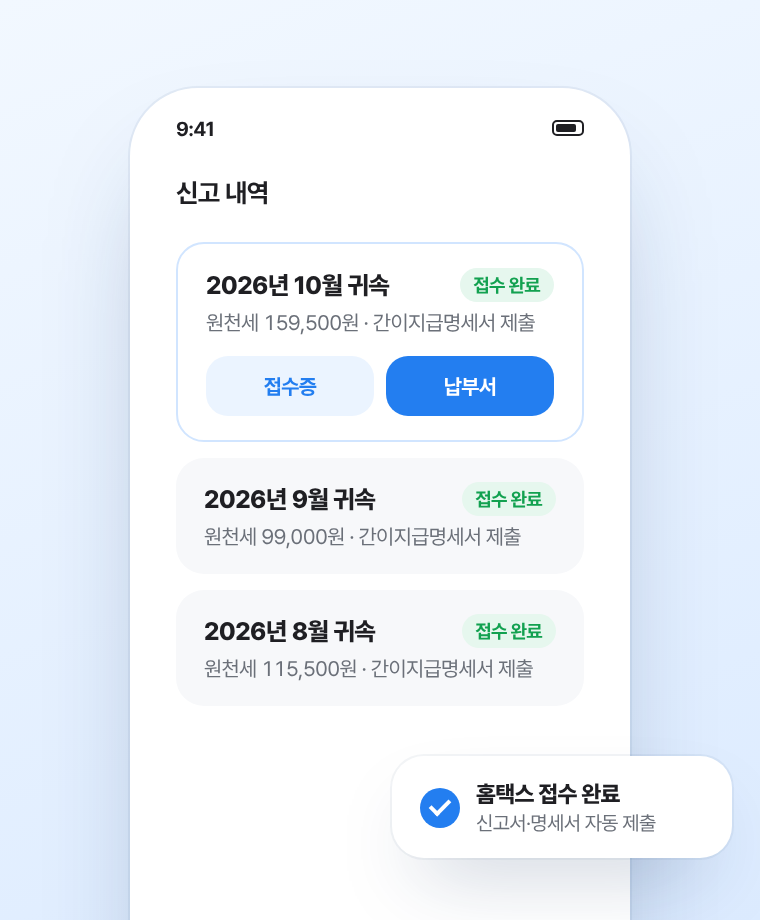
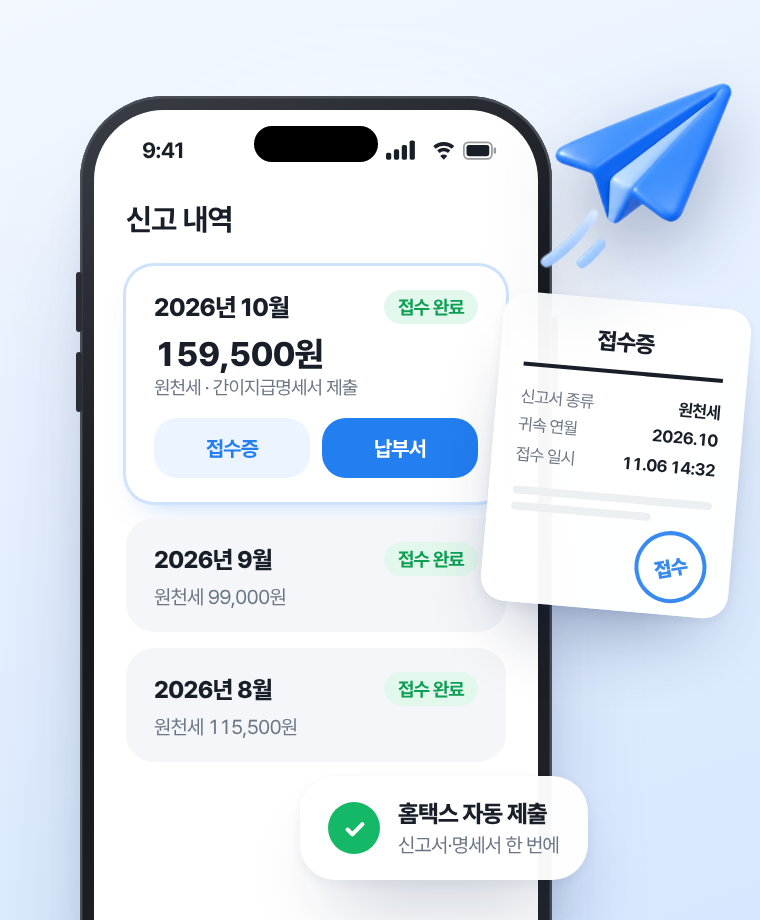
Redo landing images with device frames and Figma AI 3D graphics
Phones get a real device frame, the hero sits on a brand-blue gradient,
step screens are zoomed to one key element each, and 3D coin, document,
calculator and paper-plane graphics generated with Figma AI are layered
on top. Audience icons are now 3D renders from the same set.

Claude-Session: https://claude.ai/code/session_01XeTdt5mgBf16amy12iLBWn

diff --git a/images/_source/frames.html b/images/_source/frames.html
@@ -1,196 +1,214 @@
 <!doctype html><html lang="ko"><head><meta charset="utf-8">
 <link rel="stylesheet" href="../../fonts/pretendard/pretendardvariable-dynamic-subset.css">
 <style>
-:root{--ink:#1F1F23;--sub:#6B7079;--faint:#9CA1A9;--line:#E8EAEE;--band:#F7F8FA;--blue:#237EF0;--deep:#1A6AD6;--wash:#EBF4FF;--soft:#D1E5FF;--kakao:#FEE500}
+:root{--ink:#191F28;--sub:#6B7684;--faint:#A0A8B4;--line:#EDF0F3;--band:#F4F6F9;--blue:#237EF0;--deep:#1458C9;--wash:#EBF4FF;--soft:#CFE3FF;--kakao:#FEE500;--green:#14B866}
 *{box-sizing:border-box;margin:0;padding:0}
-body{font-family:"Pretendard Variable",Pretendard,sans-serif;color:var(--ink);background:#ccc;letter-spacing:-.02em;-webkit-font-smoothing:antialiased}
-.f{position:relative;overflow:hidden;margin:20px}
+body{font-family:"Pretendard Variable",Pretendard,sans-serif;color:var(--ink);background:#ccc;letter-spacing:-.025em;-webkit-font-smoothing:antialiased;display:flex;flex-wrap:wrap;align-items:flex-start}
+.f{position:relative;overflow:hidden;margin:20px;flex-shrink:0}
 .num{font-variant-numeric:tabular-nums}
-/* app screen */
-.scr{background:#fff;height:100%;display:flex;flex-direction:column;font-size:11px}
-.sb{height:26px;display:flex;align-items:center;justify-content:space-between;padding:0 16px;font-size:10px;font-weight:700;flex-shrink:0}
-.sb i{display:inline-block;width:16px;height:8px;border:1.2px solid var(--ink);border-radius:2.5px;position:relative}
-.sb i:after{content:"";position:absolute;inset:1px 3px 1px 1px;background:var(--ink);border-radius:1px}
-.nav{height:38px;display:flex;align-items:center;gap:8px;padding:0 16px;font-weight:700;font-size:13px;flex-shrink:0}
-.nav .bk{width:8px;height:8px;border-left:2px solid var(--ink);border-bottom:2px solid var(--ink);transform:rotate(45deg);margin-right:4px}
-.body{padding:6px 16px 0;flex:1;display:flex;flex-direction:column;min-height:0}
-.h{font-size:18px;font-weight:800;line-height:1.35;letter-spacing:-.04em}
+/* device */
+.dev{position:absolute;background:linear-gradient(150deg,#3A3E46 0%,#15171B 40%,#24272D 100%);padding:7px;box-shadow:0 50px 70px -36px rgba(8,30,80,.6),0 18px 30px -18px rgba(8,30,80,.35),inset 0 0 0 1.2px #4B4F57}
+.dev:before,.dev:after{content:"";position:absolute;width:3px;background:#2A2D33;border-radius:2px}
+.dev:before{left:-2.5px;top:88px;height:30px;box-shadow:0 40px 0 #2A2D33}
+.dev:after{right:-2.5px;top:110px;height:46px}
+.scr{background:#fff;height:100%;display:flex;flex-direction:column;position:relative;overflow:hidden;font-size:11px}
+.isl{position:absolute;top:8px;left:50%;transform:translateX(-50%);width:62px;height:18px;background:#000;border-radius:12px;z-index:5}
+.sb{height:36px;display:flex;align-items:center;justify-content:space-between;padding:4px 20px 0 24px;font-size:11px;font-weight:700;flex-shrink:0}
+.sb svg{display:block}
+.nav{height:34px;display:flex;align-items:center;gap:6px;padding:0 16px;font-weight:700;font-size:13px;flex-shrink:0}
+.bk{width:16px;height:16px;display:grid;place-items:center}
+.bd{padding:4px 16px 0;flex:1;display:flex;flex-direction:column;min-height:0}
+.h{font-size:19px;font-weight:800;line-height:1.32;letter-spacing:-.045em}
 .s{color:var(--sub);font-size:11px;margin-top:5px;line-height:1.5}
 .card{background:var(--band);border-radius:14px;padding:12px 14px}
 .row{display:flex;justify-content:space-between;align-items:center}
-.btn{flex-shrink:0;height:40px;border-radius:11px;background:var(--blue);color:#fff;font-weight:700;font-size:12.5px;display:grid;place-items:center}
-.btn.k{background:var(--kakao);color:#191919}
-.tag{display:inline-block;font-size:9.5px;font-weight:700;color:var(--blue);background:var(--wash);border-radius:99px;padding:3px 7px}
-.tag.g{color:#12A150;background:#E6F7EE}
-.lbl{font-size:10px;color:var(--sub);font-weight:600;margin-bottom:5px}
-.inp{height:36px;border:1.4px solid var(--line);border-radius:10px;display:flex;align-items:center;padding:0 11px;font-size:12px;font-weight:600}
-.inp.on{border-color:var(--blue);box-shadow:0 0 0 3px var(--wash)}
-.chip{flex:1;height:34px;border-radius:10px;border:1.4px solid var(--line);display:grid;place-items:center;font-size:11px;font-weight:700;color:var(--sub)}
-.chip.on{border-color:var(--blue);background:var(--wash);color:var(--blue)}
-.av{width:28px;height:28px;border-radius:50%;display:grid;place-items:center;font-weight:800;font-size:11px;flex-shrink:0}
-.logo{display:flex;align-items:center;gap:6px;font-weight:800;font-size:13px}
-.logo b{width:20px;height:20px;border-radius:6px;background:var(--blue);display:grid;place-items:center;color:#fff;font-size:11px}
-.dl{display:flex;justify-content:space-between;padding:6px 0;font-size:11.5px}
-.dl span:first-child{color:var(--sub)}
-.dl span:last-child{font-weight:700}
-hr{border:0;border-top:1px solid var(--line);margin:6px 0}
-/* phone frame */
-.ph{position:absolute;background:#fff;border-radius:34px;padding:7px;box-shadow:0 30px 60px -22px rgba(22,52,98,.38),0 0 0 1px rgba(22,52,98,.06)}
-.ph>.scr{border-radius:28px;overflow:hidden}
-.float{position:absolute;background:#fff;border-radius:16px;padding:12px 14px;box-shadow:0 18px 40px -16px rgba(22,52,98,.35),0 0 0 1px rgba(22,52,98,.05)}
-.chk{width:20px;height:20px;border-radius:50%;background:var(--blue);display:grid;place-items:center;flex-shrink:0}
-.chk:after{content:"";width:8px;height:4px;border-left:2px solid #fff;border-bottom:2px solid #fff;transform:rotate(-45deg) translate(1px,-1px)}
-.bg{background:linear-gradient(160deg,#F2F8FF 0%,#DCEBFF 100%)}
-.ico{display:block;width:32px;height:32px;margin:20px;background:transparent}
+.btn{flex-shrink:0;height:42px;border-radius:12px;background:var(--blue);color:#fff;font-weight:700;font-size:12.5px;display:flex;align-items:center;justify-content:center;gap:6px}
+.btn.ghost{background:var(--wash);color:var(--blue)}
+.tag{display:inline-flex;align-items:center;font-size:9.5px;font-weight:700;color:var(--blue);background:var(--wash);border-radius:99px;padding:3px 7px;white-space:nowrap}
+.tag.g{color:#0E9F55;background:#E3F8EC}
+.tag.o{color:#E07000;background:#FFF1DF}
+.av{width:30px;height:30px;border-radius:50%;display:grid;place-items:center;font-weight:800;font-size:11.5px;flex-shrink:0}
+.av.b{background:#E1EEFF;color:var(--blue)}.av.g{background:#DFF6E9;color:#0E9F55}.av.o{background:#FFEDD8;color:#E07000}
+.dl{display:flex;justify-content:space-between;padding:5px 0;font-size:11.5px}
+.dl span:first-child{color:var(--sub)}.dl span:last-child{font-weight:700}
+hr{border:0;border-top:1px solid #E3E7EC;margin:5px 0}
+.fl{position:absolute;background:rgba(255,255,255,.97);border-radius:18px;padding:12px 14px;box-shadow:0 22px 40px -18px rgba(8,30,80,.45),0 2px 6px rgba(8,30,80,.06);z-index:10}
+.ck{width:26px;height:26px;border-radius:50%;background:var(--blue);display:grid;place-items:center;flex-shrink:0}
+.ck.g{background:var(--green)}
+.ck svg{width:13px;height:13px}
+.ft{font-size:12px;font-weight:800}.fs{font-size:10px;color:var(--sub);margin-top:2px}
+.conf{position:absolute;border-radius:2px}
+.glow{position:absolute;border-radius:50%;filter:blur(30px)}
+.ico{display:block;width:32px;height:32px;margin:20px}
 </style></head><body>
+<svg width="0" height="0" style="position:absolute"><defs>
+ <symbol id="stat" viewBox="0 0 64 12"><g fill="#191F28"><rect x="0" y="7" width="3" height="4" rx="1"/><rect x="4.5" y="5" width="3" height="6" rx="1"/><rect x="9" y="2.5" width="3" height="8.5" rx="1"/><rect x="13.5" y="0" width="3" height="11" rx="1"/>
+ <path d="M27 3.2a9 9 0 0 1 12 0l-1.4 1.5a7 7 0 0 0-9.2 0zM29.2 5.6a5.6 5.6 0 0 1 7.6 0l-1.4 1.5a3.6 3.6 0 0 0-4.8 0zM33 11l-2-2.1a2.8 2.8 0 0 1 4 0z"/>
+ <rect x="44.5" y="1" width="16" height="9.5" rx="2.6" fill="none" stroke="#191F28" stroke-opacity=".45" stroke-width="1"/><rect x="46" y="2.5" width="13" height="6.5" rx="1.4"/><rect x="61.5" y="4" width="1.4" height="3.5" rx=".7" fill-opacity=".45"/></g></symbol>
+ <symbol id="chk" viewBox="0 0 14 14"><path d="M3 7.3l2.6 2.6L11 4.4" fill="none" stroke="#fff" stroke-width="2.2" stroke-linecap="round" stroke-linejoin="round"/></symbol>
+ <symbol id="back" viewBox="0 0 16 16"><path d="M10 3L5 8l5 5" fill="none" stroke="#191F28" stroke-width="2" stroke-linecap="round" stroke-linejoin="round"/></symbol>
+ <symbol id="kakao" viewBox="0 0 20 18"><path d="M10 1C4.8 1 1 4.2 1 8.1c0 2.5 1.6 4.7 4.1 5.9l-1 3.7 4.2-2.8c.6.1 1.1.1 1.7.1 5.2 0 9-3.2 9-7.1S15.2 1 10 1z" fill="#191919"/></symbol>
+</defs></svg>
 
-<!-- STEP 1: home / login -->
-<div class="f" id="step-1" style="width:210px;height:330px"><div class="scr">
-  <div class="sb"><span>9:41</span><i></i></div>
-  <div class="nav"><div class="logo"><b>₩</b>원클릭 원천세</div></div>
-  <div class="body">
-    <div class="tag" style="align-self:flex-start">11월 신고 기한 D-4</div>
-    <div class="h" style="margin-top:7px">매달 돌아오는 원천세,<br>3분이면 끝나요</div>
-    <div class="s">세금 계산부터 홈택스 신고까지<br>한 번에 끝내 드려요</div>
-    <div class="card" style="margin-top:10px;padding:10px 14px;background:var(--wash)">
-      <div class="row"><span style="font-size:10.5px;color:var(--sub);font-weight:600">이번 달 신고할 원천세</span></div>
-      <div style="font-size:12.5px;font-weight:800;margin-top:6px">2026년 10월 지급분</div>
-      <div style="display:flex;gap:6px;margin-top:7px"><span class="tag" style="background:#fff">사업소득 3.3%</span><span class="tag" style="background:#fff">기타소득 8.8%</span></div>
-    </div>
-    <div style="flex:1"></div>
-    <div class="btn k" style="margin-bottom:14px">카카오로 3초 만에 시작하기</div>
-  </div>
-</div></div>
-
-<!-- STEP 2: input -->
-<div class="f" id="step-2" style="width:210px;height:330px"><div class="scr">
-  <div class="sb"><span>9:41</span><i></i></div>
-  <div class="nav"><span class="bk"></span>지급 내역 입력</div>
-  <div class="body">
-    <div class="h" style="font-size:16px">누구에게 얼마를<br>지급했나요?</div>
-    <div style="margin-top:14px"><div class="lbl">받는 사람</div><div class="inp">김민지 · 디자이너</div></div>
-    <div style="margin-top:10px"><div class="lbl">소득 종류</div>
-      <div style="display:flex;gap:6px"><div class="chip on">사업소득 3.3%</div><div class="chip">기타소득 8.8%</div></div></div>
-    <div style="margin-top:10px"><div class="lbl">지급액</div><div class="inp on num">1,500,000<span style="margin-left:auto;color:var(--sub);font-weight:500">원</span></div></div>
-    <div style="flex:1"></div>
+<!-- ============ HERO 520x560 ============ -->
+<div class="f" id="hero" style="width:520px;height:560px;background:linear-gradient(155deg,#3D94FF 0%,#237EF0 42%,#1556CC 100%)">
+  <div class="glow" style="width:300px;height:300px;background:#7CC0FF;opacity:.55;left:170px;top:60px"></div>
+  <div class="glow" style="width:260px;height:260px;background:#0E3FA8;opacity:.6;left:-80px;top:380px"></div>
+  <svg style="position:absolute;inset:0" width="520" height="560"><g fill="none" stroke="#fff" stroke-opacity=".10"><circle cx="330" cy="280" r="170"/><circle cx="330" cy="280" r="240"/><circle cx="330" cy="280" r="310"/></g></svg>
+  <!-- back phone -->
+  <div class="dev" style="left:28px;top:96px;width:224px;height:462px;border-radius:40px;transform:rotate(-7deg)"><div class="scr" style="border-radius:33px">
+    <div class="isl"></div><div class="sb"><span>9:41</span><svg width="56" height="11"><use href="#stat"/></svg></div>
+    <div class="nav"><svg class="bk"><use href="#back"/></svg>10월 지급 내역</div>
+    <div class="bd">
+      <div class="card" style="background:linear-gradient(135deg,#2E88F7,#1A63DA);color:#fff;padding:13px 14px">
+        <div style="font-size:10px;opacity:.85;font-weight:600">이번 달 원천세</div>
+        <div style="font-size:20px;font-weight:800;margin-top:3px" class="num">159,500원</div>
+        <div style="font-size:9.5px;opacity:.85;margin-top:3px" class="num">지급 총액 4,000,000원 · 3명</div>
       </div>
-</div></div>
-
-<!-- STEP 3: tax summary -->
-<div class="f" id="step-3" style="width:210px;height:330px"><div class="scr">
-  <div class="sb"><span>9:41</span><i></i></div>
-  <div class="nav"><span class="bk"></span>세금 확인</div>
-  <div class="body">
-    <div class="s" style="margin-top:0">10월 지급분 · 3명</div>
-    <div class="h" style="margin-top:2px">이번 달 낼 세금은<br><span style="color:var(--blue)" class="num">159,500원</span>이에요</div>
-    <div class="card" style="margin-top:10px;padding:6px 12px">
-      <div class="dl num"><span>소득세</span><span>145,000원</span></div>
-      <div class="dl num"><span>지방소득세</span><span>14,500원</span></div>
-      <hr>
-      <div class="dl num"><span>납부 기한</span><span>11월 10일</span></div>
-    </div>
-    <div style="display:flex;align-items:center;gap:6px;margin-top:10px;font-size:10.5px;color:var(--sub)"><span class="chk" style="width:14px;height:14px"></span>간이지급명세서도 함께 제출돼요</div>
-    <div style="flex:1"></div>
-    <div class="btn" style="margin-bottom:14px">홈택스에 신고하기</div>
-  </div>
-</div></div>
-
-<!-- FEATURE CALC -->
-<div class="f bg" id="feature-calc" style="width:380px;height:460px">
-  <div class="ph" style="left:65px;top:44px;width:250px;height:480px"><div class="scr">
-    <div class="sb"><span>9:41</span><i></i></div>
-    <div class="nav"><span class="bk"></span>세금 계산 결과</div>
-    <div class="body">
-      <div class="row"><div style="display:flex;align-items:center;gap:8px"><div class="av" style="background:#FFF1E0;color:#E07B00">이</div><div><div style="font-weight:800;font-size:12.5px">이서연</div><div style="font-size:10px;color:var(--sub)">특강 강연료</div></div></div><span class="tag">기타소득 8.8%</span></div>
-      <div class="card" style="margin-top:12px;padding:8px 12px">
-        <div class="dl num"><span>지급액</span><span>500,000원</span></div>
-        <div class="dl num"><span>필요경비 (60%)</span><span>−300,000원</span></div>
-        <div class="dl num"><span>과세 대상 금액</span><span>200,000원</span></div>
-        <hr>
-        <div class="dl num"><span>소득세 (20%)</span><span>40,000원</span></div>
-        <div class="dl num"><span>지방소득세 (10%)</span><span>4,000원</span></div>
+      <div style="margin-top:8px">
+        <div class="row" style="padding:8px 0"><div style="display:flex;gap:8px;align-items:center"><div class="av b">김</div><div><div style="font-weight:700;font-size:11.5px">김민지</div><div style="font-size:9.5px;color:var(--sub)">디자인 외주</div></div></div><div style="text-align:right" class="num"><div style="font-weight:700">1,500,000원</div><div style="font-size:9px;color:var(--blue);font-weight:600">사업 3.3%</div></div></div>
+        <div class="row" style="padding:8px 0;border-top:1px solid var(--line)"><div style="display:flex;gap:8px;align-items:center"><div class="av g">박</div><div><div style="font-weight:700;font-size:11.5px">박준호</div><div style="font-size:9.5px;color:var(--sub)">앱 개발 외주</div></div></div><div style="text-align:right" class="num"><div style="font-weight:700">2,000,000원</div><div style="font-size:9px;color:var(--blue);font-weight:600">사업 3.3%</div></div></div>
+        <div class="row" style="padding:8px 0;border-top:1px solid var(--line)"><div style="display:flex;gap:8px;align-items:center"><div class="av o">이</div><div><div style="font-weight:700;font-size:11.5px">이서연</div><div style="font-size:9.5px;color:var(--sub)">특강 강연료</div></div></div><div style="text-align:right" class="num"><div style="font-weight:700">500,000원</div><div style="font-size:9px;color:#E07000;font-weight:600">기타 8.8%</div></div></div>
       </div>
-      <div style="margin-top:12px;padding:0 2px" class="row"><span style="font-size:11px;color:var(--sub);font-weight:600">실제 입금할 금액</span></div>
-      <div style="font-size:21px;font-weight:800;margin-top:2px;padding:0 2px" class="num">456,000원</div>
     </div>
   </div></div>
-  <div class="float" style="left:18px;top:392px;width:168px">
-    <div style="display:flex;align-items:center;gap:8px"><span class="chk"></span><div><div style="font-size:11.5px;font-weight:800">세율 자동 적용</div><div style="font-size:10px;color:var(--sub);margin-top:1px">원 단위 절사까지 반영</div></div></div>
-  </div>
-  <div class="float" style="right:14px;top:22px;padding:10px 12px">
-    <div style="font-size:9.5px;color:var(--sub);font-weight:600">원천징수 합계</div>
-    <div style="font-size:15px;font-weight:800;color:var(--blue);margin-top:2px" class="num">44,000원</div>
-  </div>
-</div>
-
-<!-- FEATURE HOMETAX -->
-<div class="f bg" id="feature-hometax" style="width:380px;height:460px">
-  <div class="ph" style="left:65px;top:44px;width:250px;height:480px"><div class="scr">
-    <div class="sb"><span>9:41</span><i></i></div>
-    <div class="nav">신고 내역</div>
-    <div class="body" style="gap:8px">
-      <div class="card" style="background:#fff;border:1.4px solid var(--soft)">
-        <div class="row"><span style="font-weight:800;font-size:12.5px">2026년 10월 귀속</span><span class="tag g">접수 완료</span></div>
-        <div style="font-size:10.5px;color:var(--sub);margin-top:4px" class="num">원천세 159,500원 · 간이지급명세서 제출</div>
-        <div style="display:flex;gap:6px;margin-top:10px"><div class="btn" style="flex:1;height:30px;font-size:10.5px;background:var(--wash);color:var(--blue)">접수증</div><div class="btn" style="flex:1;height:30px;font-size:10.5px">납부서</div></div>
-      </div>
-      <div class="card">
-        <div class="row"><span style="font-weight:800;font-size:12.5px">2026년 9월 귀속</span><span class="tag g">접수 완료</span></div>
-        <div style="font-size:10.5px;color:var(--sub);margin-top:4px" class="num">원천세 99,000원 · 간이지급명세서 제출</div>
-      </div>
-      <div class="card">
-        <div class="row"><span style="font-weight:800;font-size:12.5px">2026년 8월 귀속</span><span class="tag g">접수 완료</span></div>
-        <div style="font-size:10.5px;color:var(--sub);margin-top:4px" class="num">원천세 115,500원 · 간이지급명세서 제출</div>
-      </div>
-      
-    </div>
-  </div></div>
-  <div class="float" style="right:14px;top:378px;width:170px">
-    <div style="display:flex;align-items:center;gap:8px"><span class="chk"></span><div><div style="font-size:11.5px;font-weight:800">홈택스 접수 완료</div><div style="font-size:10px;color:var(--sub);margin-top:1px">신고서·명세서 자동 제출</div></div></div>
-  </div>
-</div>
-
-<!-- HERO -->
-<div class="f bg" id="hero" style="width:520px;height:560px">
-  <div style="position:absolute;width:360px;height:360px;border-radius:50%;background:radial-gradient(circle,#fff 0,rgba(255,255,255,0) 70%);left:80px;top:90px"></div>
-  <div class="ph" style="left:22px;top:70px;width:230px;height:470px;transform:rotate(-4deg)"><div class="scr">
-    <div class="sb"><span>9:41</span><i></i></div>
-    <div class="nav"><span class="bk"></span>지급 내역</div>
-    <div class="body" style="gap:0">
-      <div class="s" style="margin-top:0">2026년 10월 지급분</div>
-      <div style="font-size:16px;font-weight:800;margin-top:2px" class="num">총 4,000,000원</div>
-      <div style="margin-top:12px">
-        <div class="row" style="padding:8px 0"><div style="display:flex;gap:8px;align-items:center"><div class="av" style="background:var(--wash);color:var(--blue)">김</div><div><div style="font-weight:700">김민지</div><div style="font-size:9.5px;color:var(--sub)">사업소득 3.3%</div></div></div><div style="text-align:right" class="num"><div style="font-weight:700">1,500,000원</div><div style="font-size:9.5px;color:var(--blue)">세금 49,500원</div></div></div>
-        <div class="row" style="padding:8px 0;border-top:1px solid var(--line)"><div style="display:flex;gap:8px;align-items:center"><div class="av" style="background:#E6F7EE;color:#12A150">박</div><div><div style="font-weight:700">박준호</div><div style="font-size:9.5px;color:var(--sub)">사업소득 3.3%</div></div></div><div style="text-align:right" class="num"><div style="font-weight:700">2,000,000원</div><div style="font-size:9.5px;color:var(--blue)">세금 66,000원</div></div></div>
-        <div class="row" style="padding:8px 0;border-top:1px solid var(--line)"><div style="display:flex;gap:8px;align-items:center"><div class="av" style="background:#FFF1E0;color:#E07B00">이</div><div><div style="font-weight:700">이서연</div><div style="font-size:9.5px;color:var(--sub)">기타소득 8.8%</div></div></div><div style="text-align:right" class="num"><div style="font-weight:700">500,000원</div><div style="font-size:9.5px;color:var(--blue)">세금 44,000원</div></div></div>
-      </div>
-      <div style="margin-top:8px;height:34px;border:1.4px dashed var(--soft);border-radius:10px;display:grid;place-items:center;color:var(--blue);font-weight:700;font-size:11px">+ 지급 내역 추가</div>
-    </div>
-  </div></div>
-  <div class="ph" style="left:266px;top:30px;width:232px;height:480px;transform:rotate(3deg)"><div class="scr">
-    <div class="sb"><span>9:41</span><i></i></div>
-    <div class="body" style="align-items:center;text-align:center;padding-top:40px">
-      <div style="width:56px;height:56px;border-radius:50%;background:var(--wash);display:grid;place-items:center"><span class="chk" style="width:34px;height:34px"></span></div>
-      <div class="h" style="margin-top:16px">원천세 신고가<br>완료됐어요</div>
+  <!-- front phone -->
+  <div class="dev" style="left:244px;top:40px;width:236px;height:486px;border-radius:42px;transform:rotate(4deg)"><div class="scr" style="border-radius:35px">
+    <div class="isl"></div><div class="sb"><span>9:41</span><svg width="56" height="11"><use href="#stat"/></svg></div>
+    <div class="conf" style="width:7px;height:12px;background:#FFC93C;left:40px;top:62px;transform:rotate(25deg)"></div>
+    <div class="conf" style="width:6px;height:6px;background:#22C47A;left:62px;top:96px;border-radius:50%"></div>
+    <div class="conf" style="width:8px;height:4px;background:#FF7A59;left:168px;top:70px;transform:rotate(-30deg)"></div>
+    <div class="conf" style="width:6px;height:11px;background:#7AB6FF;left:182px;top:110px;transform:rotate(40deg)"></div>
+    <div class="conf" style="width:5px;height:5px;background:#FFC93C;left:150px;top:52px;border-radius:50%"></div>
+    <div class="conf" style="width:7px;height:4px;background:#237EF0;left:28px;top:128px;transform:rotate(-15deg)"></div>
+    <div class="bd" style="align-items:center;text-align:center;padding-top:30px">
+      <img src="3d/doc-check.png" style="width:86px;height:86px;margin-top:-6px;filter:drop-shadow(0 10px 14px rgba(35,126,240,.25))">
+      <div class="h" style="margin-top:10px;font-size:20px">원천세 신고가<br>완료됐어요</div>
       <div class="s">홈택스에 정상 접수됐어요</div>
-      <div class="card" style="margin-top:18px;width:100%;text-align:left;padding:8px 12px">
+      <div class="card" style="margin-top:16px;width:100%;text-align:left;padding:8px 13px">
         <div class="dl num"><span>귀속 연월</span><span>2026년 10월</span></div>
         <div class="dl num"><span>납부할 세금</span><span style="color:var(--blue)">159,500원</span></div>
         <div class="dl num"><span>납부 기한</span><span>11월 10일</span></div>
-        <div class="dl"><span>간이지급명세서</span><span>제출 완료</span></div>
+        <div class="dl"><span>간이지급명세서</span><span style="color:var(--green)">제출 완료</span></div>
       </div>
       <div style="flex:1"></div>
-      <div style="display:flex;gap:6px;width:100%;margin-bottom:16px"><div class="btn" style="flex:1;background:var(--wash);color:var(--blue)">접수증</div><div class="btn" style="flex:1">납부서 받기</div></div>
+      <div style="display:flex;gap:6px;width:100%;margin-bottom:18px"><div class="btn ghost" style="flex:1">접수증</div><div class="btn" style="flex:1.3">납부서 받기</div></div>
     </div>
   </div></div>
-  <div class="float" style="left:10px;top:410px;width:180px">
-    <div style="display:flex;align-items:center;gap:8px"><span class="chk"></span><div><div style="font-size:11.5px;font-weight:800">신고까지 3분</div><div style="font-size:10px;color:var(--sub);margin-top:1px">세율·절사 자동 계산</div></div></div>
-  </div>
+  <div class="fl" style="left:18px;top:38px;display:flex;align-items:center;gap:9px"><span class="ck"><svg><use href="#chk"/></svg></span><div><div class="ft">세율 자동 계산</div><div class="fs">3.3% · 8.8% 알아서 적용</div></div></div>
+  <img src="3d/coin.png" style="position:absolute;right:-4px;top:2px;width:86px;z-index:11;transform:rotate(12deg);filter:drop-shadow(0 14px 16px rgba(8,30,80,.35))">
+  <img src="3d/plane.png" style="position:absolute;left:18px;top:440px;width:84px;z-index:11;filter:drop-shadow(0 14px 16px rgba(8,30,80,.35))">
+  <div class="fl" style="left:110px;top:470px;display:flex;align-items:center;gap:9px"><span class="ck g"><svg><use href="#chk"/></svg></span><div><div class="ft">신고까지 단 3분</div><div class="fs">간이지급명세서도 함께 제출</div></div></div>
 </div>
 
-<!-- ICONS (stroke, 32 viewbox) -->
-<svg class="ico" id="who-1" viewBox="0 0 32 32" fill="none" stroke="#237EF0" stroke-width="2.2" stroke-linecap="round" stroke-linejoin="round"><rect x="4" y="6" width="24" height="16" rx="3"/><path d="M12 27h8M16 22v5"/><path d="M11 17l4-6 2 3 1.5-2L22 17z" fill="#D1E5FF"/></svg>
-<svg class="ico" id="who-2" viewBox="0 0 32 32" fill="none" stroke="#237EF0" stroke-width="2.2" stroke-linecap="round" stroke-linejoin="round"><rect x="12" y="3.5" width="8" height="14" rx="4" fill="#D1E5FF"/><path d="M8 15a8 8 0 0 0 16 0M16 23v5M11.5 28h9"/></svg>
-<svg class="ico" id="who-3" viewBox="0 0 32 32" fill="none" stroke="#237EF0" stroke-width="2.2" stroke-linecap="round" stroke-linejoin="round"><path d="M3 12l13-6 13 6-13 6z" fill="#D1E5FF"/><path d="M8.5 14.5v6.5c0 2 3.4 4 7.5 4s7.5-2 7.5-4v-6.5M29 12v7"/></svg>
-<svg class="ico" id="who-4" viewBox="0 0 32 32" fill="none" stroke="#237EF0" stroke-width="2.2" stroke-linecap="round" stroke-linejoin="round"><path d="M16 9c-3-2.4-7-3-12-2.5v18c5-.5 9 .1 12 2.5 3-2.4 7-3 12-2.5v-18C23 6 19 6.6 16 9z" fill="#D1E5FF"/><path d="M16 9v18"/></svg>
+<!-- ============ STEPS 210x330 ============ -->
+<div class="f" id="step-1" style="width:210px;height:330px;background:linear-gradient(170deg,#F3F8FF,#DDEBFF)">
+  <div class="glow" style="width:160px;height:160px;background:#fff;left:25px;top:40px;opacity:.9"></div>
+  <div class="dev" style="left:16px;top:26px;width:178px;height:360px;border-radius:34px;padding:6px"><div class="scr" style="border-radius:28px">
+    <div class="isl" style="width:54px;height:16px;top:7px"></div><div class="sb" style="height:32px;padding:3px 14px 0 20px;font-size:10px"><span>9:41</span><svg width="46" height="9"><use href="#stat"/></svg></div>
+    <div class="bd" style="padding:8px 14px 0;align-items:center;text-align:center">
+      <img src="3d/coin.png" style="width:62px;height:62px;margin-top:-4px;filter:drop-shadow(0 8px 10px rgba(224,160,0,.25))">
+      <div style="font-size:16.5px;font-weight:800;line-height:1.32;letter-spacing:-.05em;margin-top:8px">원천세 신고,<br>카카오로 바로 시작</div>
+      <div class="s" style="font-size:10px">회원가입·앱 설치 없이 무료</div>
+      <div style="display:flex;gap:5px;margin-top:14px"><span class="tag">사업소득 3.3%</span><span class="tag o">기타소득 8.8%</span></div>
+      <div class="btn" style="width:100%;background:var(--kakao);color:#191919;height:40px;font-size:12px;margin-top:18px"><svg width="15" height="14"><use href="#kakao"/></svg>카카오로 시작하기</div>
+    </div>
+  </div></div>
+</div>
+
+<div class="f" id="step-2" style="width:210px;height:330px;background:linear-gradient(170deg,#F3F8FF,#DDEBFF)">
+  <div class="dev" style="left:16px;top:26px;width:178px;height:360px;border-radius:34px;padding:6px"><div class="scr" style="border-radius:28px">
+    <div class="isl" style="width:54px;height:16px;top:7px"></div><div class="sb" style="height:32px;padding:3px 14px 0 20px;font-size:10px"><span>9:41</span><svg width="46" height="9"><use href="#stat"/></svg></div>
+    <div class="bd" style="padding:6px 13px 0">
+      <div style="font-size:15.5px;font-weight:800;line-height:1.32;letter-spacing:-.05em">누구에게 얼마를<br>지급했나요?</div>
+      <div style="margin-top:12px;display:flex;gap:7px;align-items:center;padding:8px 10px;border-radius:11px;background:var(--band)"><div class="av b" style="width:24px;height:24px;font-size:10px">김</div><div style="flex:1"><div style="font-weight:700;font-size:11px">김민지</div><div style="font-size:9px;color:var(--sub)">디자이너 · 외주비</div></div></div>
+      <div style="display:flex;gap:5px;margin-top:8px"><div style="flex:1;height:30px;border-radius:9px;border:1.5px solid var(--blue);background:var(--wash);color:var(--blue);font-size:10px;font-weight:700;display:grid;place-items:center">사업소득 3.3%</div><div style="flex:1;height:30px;border-radius:9px;border:1.5px solid var(--line);color:var(--sub);font-size:10px;font-weight:700;display:grid;place-items:center">기타소득 8.8%</div></div>
+      <div style="margin-top:12px;font-size:9.5px;color:var(--blue);font-weight:700">지급액</div>
+      <div style="display:flex;align-items:flex-end;gap:2px;border-bottom:2px solid var(--blue);padding:3px 0 5px"><span class="num" style="font-size:21px;font-weight:800;letter-spacing:-.03em">1,500,000</span><span style="width:2px;height:20px;background:var(--blue);margin:0 2px 3px"></span><span style="margin-left:auto;font-size:13px;font-weight:700;margin-bottom:3px">원</span></div>
+      <div style="margin-top:8px;display:flex;justify-content:space-between;font-size:9.5px" class="num"><span style="color:var(--sub)">원천징수 세액</span><span style="font-weight:700;color:var(--blue)">49,500원</span></div>
+    </div>
+  </div></div>
+</div>
+
+<div class="f" id="step-3" style="width:210px;height:330px;background:linear-gradient(170deg,#F3F8FF,#DDEBFF)">
+  <div class="dev" style="left:16px;top:26px;width:178px;height:360px;border-radius:34px;padding:6px"><div class="scr" style="border-radius:28px">
+    <div class="isl" style="width:54px;height:16px;top:7px"></div><div class="sb" style="height:32px;padding:3px 14px 0 20px;font-size:10px"><span>9:41</span><svg width="46" height="9"><use href="#stat"/></svg></div>
+    <div class="bd" style="padding:6px 13px 0">
+      <div style="font-size:10px;color:var(--sub);font-weight:600">10월 지급분 · 3명</div>
+      <div style="font-size:15.5px;font-weight:800;line-height:1.32;letter-spacing:-.05em;margin-top:3px">이번 달 낼 세금은</div>
+      <div class="num" style="font-size:25px;font-weight:800;color:var(--blue);letter-spacing:-.04em;line-height:1.25">159,500<span style="font-size:16px;color:var(--ink)">원</span></div>
+      <div class="card" style="margin-top:10px;padding:5px 11px">
+        <div class="dl num" style="font-size:10.5px"><span>소득세</span><span>145,000원</span></div>
+        <div class="dl num" style="font-size:10.5px"><span>지방소득세</span><span>14,500원</span></div>
+        <hr><div class="dl num" style="font-size:10.5px"><span>납부 기한</span><span>11월 10일</span></div>
+      </div>
+      <div style="display:flex;align-items:center;gap:5px;margin-top:9px;font-size:9.5px;font-weight:700;color:var(--sub)"><span class="ck g" style="width:14px;height:14px"><svg style="width:8px;height:8px"><use href="#chk"/></svg></span>간이지급명세서도 함께 제출돼요</div>
+      <div class="btn" style="margin-top:8px;height:38px;font-size:11.5px;box-shadow:0 8px 16px -8px rgba(35,126,240,.8)">홈택스에 신고하기</div>
+    </div>
+  </div></div>
+  
+</div>
+
+<!-- ============ FEATURE CALC 380x460 ============ -->
+<div class="f" id="feature-calc" style="width:380px;height:460px;background:linear-gradient(160deg,#F3F8FF 0%,#D6E7FF 100%)">
+  <div class="glow" style="width:240px;height:240px;background:#fff;left:70px;top:60px;opacity:.9"></div>
+  <div class="dev" style="left:72px;top:48px;width:236px;height:470px;border-radius:42px"><div class="scr" style="border-radius:35px">
+    <div class="isl"></div><div class="sb"><span>9:41</span><svg width="56" height="11"><use href="#stat"/></svg></div>
+    <div class="nav"><svg class="bk"><use href="#back"/></svg>세금 계산</div>
+    <div class="bd">
+      <div class="row"><div style="display:flex;align-items:center;gap:8px"><div class="av o">이</div><div><div style="font-weight:800;font-size:12.5px">이서연</div><div style="font-size:10px;color:var(--sub)">특강 강연료</div></div></div><span class="tag o">기타소득</span></div>
+      <div class="card" style="margin-top:12px;padding:7px 13px">
+        <div class="dl num"><span>지급액</span><span>500,000원</span></div>
+        <div class="dl num"><span>필요경비 60%</span><span style="color:var(--sub);font-weight:600">−300,000원</span></div>
+        <hr>
+        <div class="dl num"><span>소득세 20%</span><span>40,000원</span></div>
+        <div class="dl num"><span>지방소득세 10%</span><span>4,000원</span></div>
+      </div>
+      <div style="margin-top:14px;font-size:10.5px;color:var(--sub);font-weight:600">받는 분께 입금할 금액</div>
+      <div class="num" style="font-size:26px;font-weight:800;letter-spacing:-.04em;margin-top:1px">456,000<span style="font-size:16px">원</span></div>
+    </div>
+  </div></div>
+  <!-- big rate badge -->
+  <div class="fl" style="left:232px;top:26px;width:128px;padding:13px 14px;background:linear-gradient(145deg,#3D94FF,#1A63DA);color:#fff;transform:rotate(4deg)">
+    <div style="font-size:10px;font-weight:600;opacity:.85">자동 적용 세율</div>
+    <div style="font-size:30px;font-weight:900;letter-spacing:-.04em;line-height:1.1;margin-top:2px">8.8%</div>
+    <div style="font-size:9.5px;opacity:.85;margin-top:2px">소득세 8% + 지방 0.8%</div>
+  </div>
+  <img src="3d/calculator.png" style="position:absolute;left:6px;top:350px;width:100px;z-index:11;transform:rotate(-8deg);filter:drop-shadow(0 16px 18px rgba(8,30,80,.3))">
+  <div class="fl" style="left:168px;top:384px;display:flex;align-items:center;gap:9px"><span class="ck"><svg><use href="#chk"/></svg></span><div><div class="ft">절사·소액부징수 반영</div><div class="fs">복잡한 규칙도 자동으로</div></div></div>
+</div>
+
+<!-- ============ FEATURE HOMETAX 380x460 ============ -->
+<div class="f" id="feature-hometax" style="width:380px;height:460px;background:linear-gradient(160deg,#F3F8FF 0%,#D6E7FF 100%)">
+  <div class="glow" style="width:240px;height:240px;background:#fff;left:70px;top:60px;opacity:.9"></div>
+  <div class="dev" style="left:40px;top:48px;width:236px;height:470px;border-radius:42px"><div class="scr" style="border-radius:35px">
+    <div class="isl"></div><div class="sb"><span>9:41</span><svg width="56" height="11"><use href="#stat"/></svg></div>
+    <div class="nav" style="font-size:15px;padding-top:4px">신고 내역</div>
+    <div class="bd" style="gap:8px;padding-top:8px">
+      <div class="card" style="background:#fff;box-shadow:0 0 0 1.5px var(--soft),0 8px 16px -10px rgba(35,126,240,.5)">
+        <div class="row"><span style="font-weight:800;font-size:12.5px">2026년 10월</span><span class="tag g">접수 완료</span></div>
+        <div class="num" style="font-size:17px;font-weight:800;margin-top:5px">159,500원</div>
+        <div style="font-size:9.5px;color:var(--sub);margin-top:1px">원천세 · 간이지급명세서 제출</div>
+        <div style="display:flex;gap:6px;margin-top:10px"><div class="btn ghost" style="flex:1;height:30px;font-size:10.5px">접수증</div><div class="btn" style="flex:1;height:30px;font-size:10.5px">납부서</div></div>
+      </div>
+      <div class="card"><div class="row"><span style="font-weight:800;font-size:12px">2026년 9월</span><span class="tag g">접수 완료</span></div><div class="num" style="font-size:10px;color:var(--sub);margin-top:4px">원천세 99,000원</div></div>
+      <div class="card"><div class="row"><span style="font-weight:800;font-size:12px">2026년 8월</span><span class="tag g">접수 완료</span></div><div class="num" style="font-size:10px;color:var(--sub);margin-top:4px">원천세 115,500원</div></div>
+          </div>
+  </div></div>
+  <img src="3d/plane.png" style="position:absolute;left:270px;top:40px;width:96px;z-index:11;filter:drop-shadow(0 16px 18px rgba(8,30,80,.3))">
+  <!-- receipt document -->
+  <div class="fl" style="left:246px;top:150px;width:124px;padding:14px 12px 46px;border-radius:12px;transform:rotate(5deg)">
+    <div style="font-size:11.5px;font-weight:800;text-align:center">접수증</div>
+    <div style="height:1.5px;background:var(--ink);margin:7px 0 8px"></div>
+    <div class="num" style="font-size:8.5px;line-height:1.75;color:var(--sub)">
+      <div class="row"><span>신고서 종류</span><b style="color:var(--ink)">원천세</b></div>
+      <div class="row"><span>귀속 연월</span><b style="color:var(--ink)">2026.10</b></div>
+      <div class="row"><span>접수 일시</span><b style="color:var(--ink)">11.06 14:32</b></div>
+    </div>
+    <div style="margin-top:8px;display:grid;gap:4px"><div style="height:4px;border-radius:2px;background:var(--line)"></div><div style="height:4px;width:70%;border-radius:2px;background:var(--line)"></div></div>
+    <div style="position:absolute;right:12px;bottom:6px;width:36px;height:36px;border-radius:50%;border:2px solid #237EF0;color:#237EF0;display:grid;place-items:center;font-size:10px;font-weight:900;transform:rotate(-14deg);opacity:.9">접수</div>
+  </div>
+  <div class="fl" style="left:150px;top:388px;display:flex;align-items:center;gap:9px"><span class="ck g"><svg><use href="#chk"/></svg></span><div><div class="ft">홈택스 자동 제출</div><div class="fs">신고서·명세서 한 번에</div></div></div>
+</div>
+
 </body></html>

diff --git a/images/_source/render.js b/images/_source/render.js
@@ -1,6 +1,6 @@
 const {chromium}=require('playwright');
 (async()=>{const b=await chromium.launch();const p=await b.newPage({deviceScaleFactor:2,viewport:{width:1400,height:900}});
 await p.goto('file://'+require('path').resolve(__dirname,'frames.html'));await p.evaluate(()=>document.fonts.ready);await p.waitForTimeout(500);
-for(const id of ['hero','step-1','step-2','step-3','feature-calc','feature-hometax','who-1','who-2','who-3','who-4']){
+for(const id of ['hero','step-1','step-2','step-3','feature-calc','feature-hometax']){
  if(id==='who-1')await p.evaluate(()=>document.body.style.background='transparent');await p.locator('#'+id).screenshot({path:require('path').resolve(__dirname,'..')+'/'+id+'.png',omitBackground:id.startsWith('who')});}
 await b.close();})();
